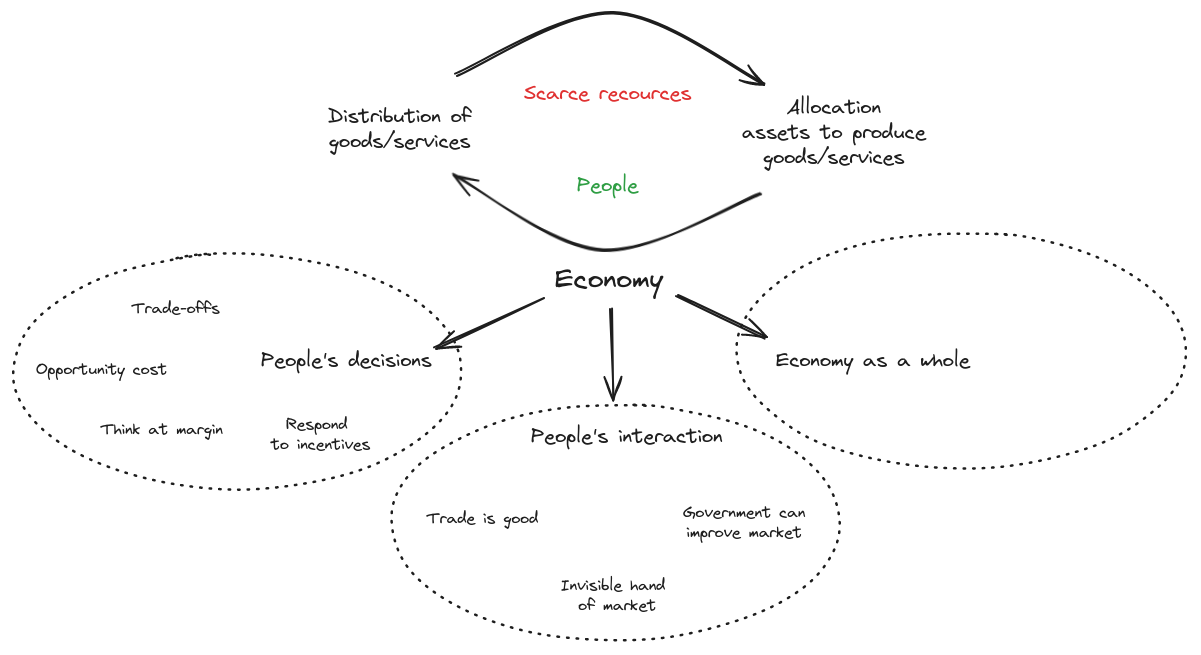
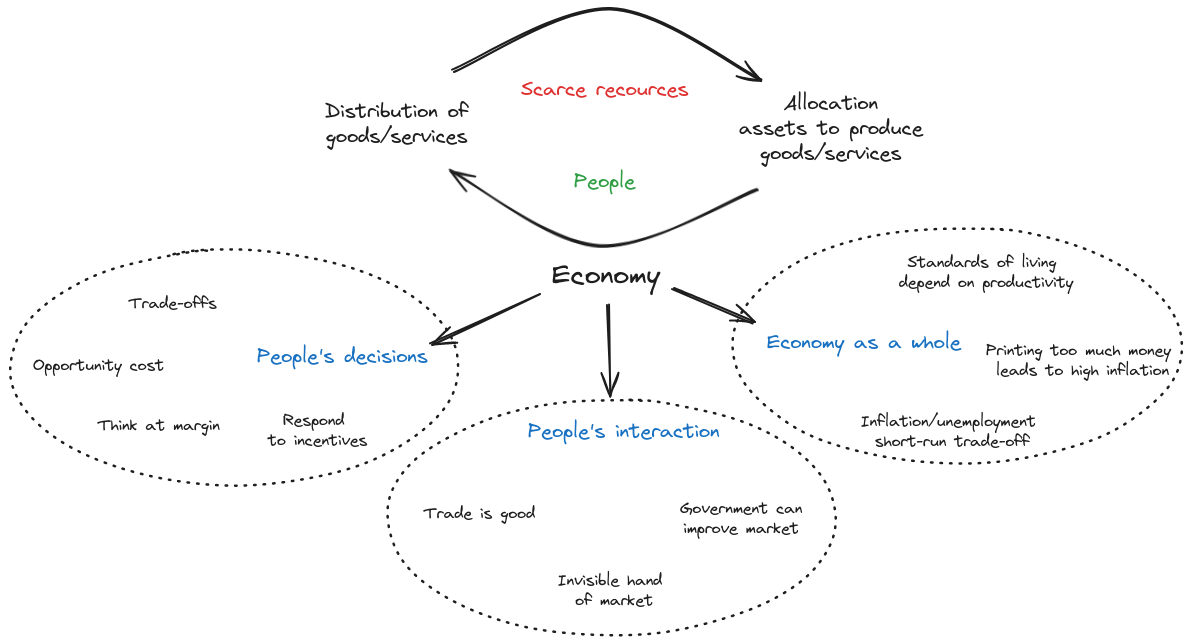
complete finance principles

diff --git a/finance/poe/principles.md b/finance/poe/principles.md
@@ -140,7 +140,40 @@ The last three principles concern the workings of the economy as a whole.
 
 ### Principle 8: A country's standard of living depends on its ability to produce goods and services
 
+The difference in living standards around the world are staggering. In 2014, average income varied from $55,00 in US to only $6,000 in Nigeria. This large variation in average income is reflected in various measures of quality of life. More income means more high-quality goods and services, better nutrition, better healthcare, and longer life expectancy. And vise versa.
+
+This variation can be explained by difference in countries' **productivity** - that is, the amount of goods and services produced by each unit of labor input. In nations where workers can produce a large quantity of goods and services per hour, most people enjoy a high standard of living. Similarly, the growth rate of a nation's productivity determines the growth rate of its average income.
+
+Productivity is the primary determinant of living standards, and other explanations must be of secondary importance.
+
+When thinking about how any policy will affect living standards, the key question is how it will affect our ability to produce goods and services. For example, by ensuring that workers are well educated and have appropriate tools and access to the best technologies.
+
 ### Principle 9: Prices rise when the government prints too much money
+
+**Inflation** is an increase in the overall level of prices in the economy.
+
+Because high inflation imposes various costs on society, keeping inflation at a low level is a goal of economic policymakers around the world.
+
+In almost all cases of large or persistent inflation, the culprit is growth in the quantity of money. When a government creates large quantities of the nation's money, the value of the money falls.
 
 ### Principle 10: Society faces a short-run trade-off between inflation and unemployment
 
+The short-run effects of monetary injections are as follows:
+
+- Increasing the amount of money in the economy stimulates the overall level of spending and thus the demand for goods and services.
+- Higher demand may over time cause firms to raise their prices, but it the meantime, it also encourages them to hire more workers and produce a larger quantity of goods and services.
+- More hiring means lower unemployment.
+
+Society faces a short-run trade-off between inflation and unemployment. This simply means that, over a period of a year or two, many economic policies push inflation and unemployment in opposite directions. This short-run trade-off plays a key role in the analysis of the **business cycle** - the irregular and largely unpredictable fluctuations in economic activity, such as employment and production.
+
+Policymakers can influence the overall demand for goods and services by changing:
+
+- the amount that government spends
+- the amount it taxes
+- the amount of money it prints 
+
+Changes in demand in turn influence the combination of inflation and unemployment that the economy experiences in the short run.
+
+## Conclusion
+
+Keep the grouping of the principles in mind: Even the most sophisticated economic analysis if founded on the ten principles.
